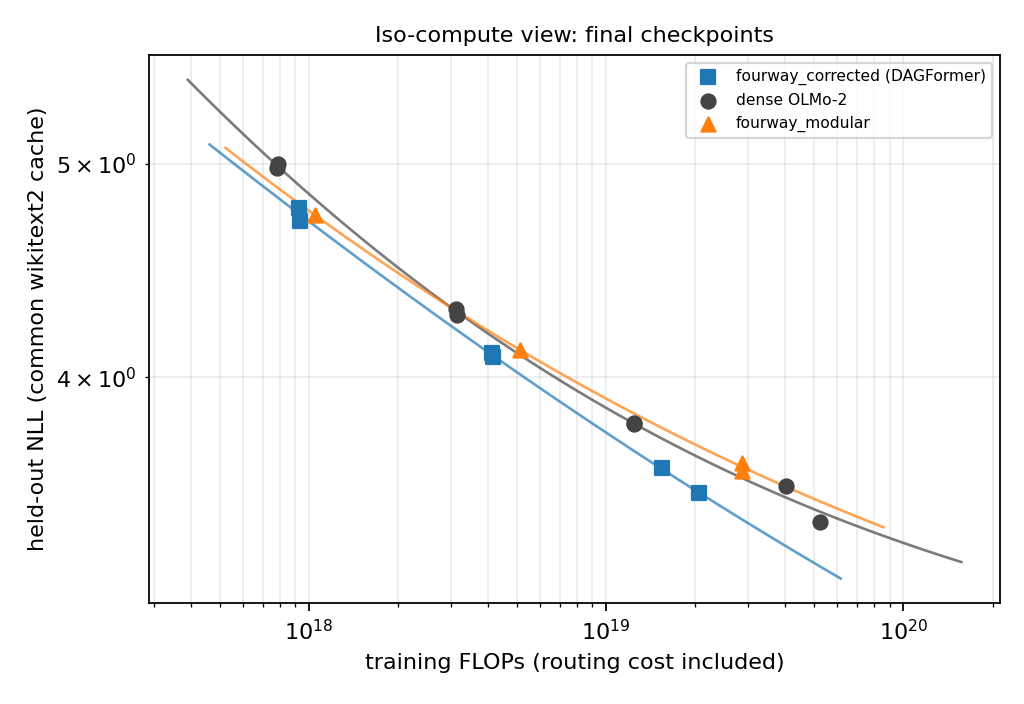
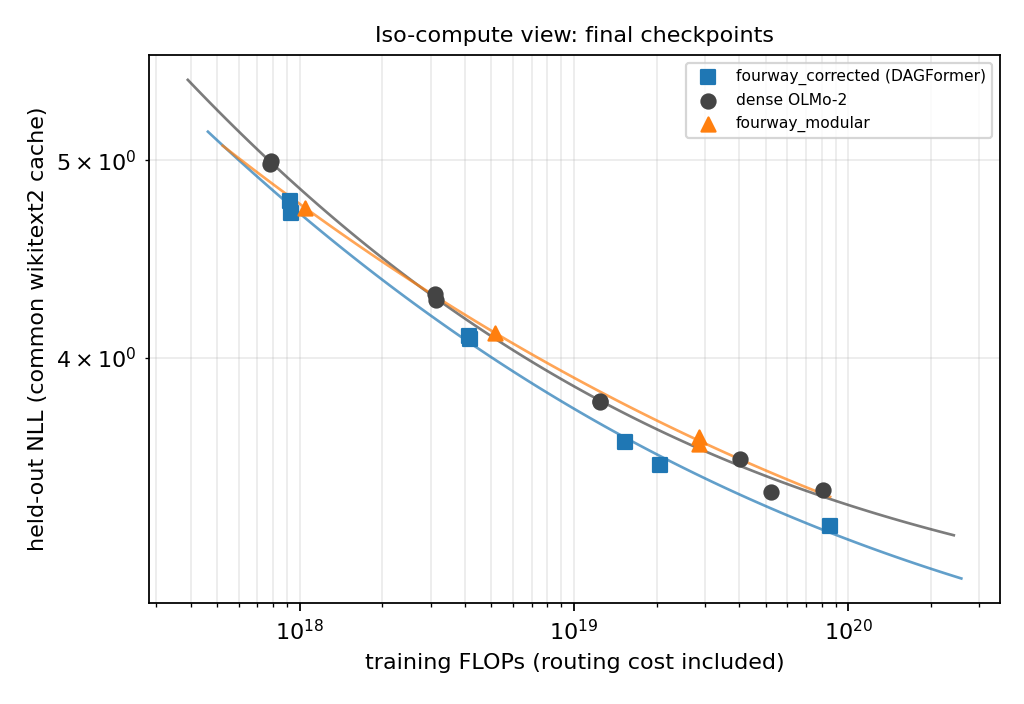
Pruning: 300M unpruned-finetune controls and relative degradation; scaling: 1B dense 10B in the common eval
- 300M s0 prune-finetune (dense 1.608, DAGFormer 1.488 held-out MathInstruct NLL; outputs on
  /work/hdd/biro, linked into the checkpoint root) fill the 300M row of the pruning table; README gains
  the relative-degradation table for 75M/150M/300M (DAGFormer advantage +0.0/+0.7/+2.1 pts at 30/50/70%
  removed at 300M).
- Common eval of 1b_dense_10b (wikitext-2 3.446) and refit; README: 1B rows in the gap table, compute
  multiplier 1.2-1.4 (75M-150M) to 1.7-1.9 (300M) and 2.1 (1B), and the fit-free iso-compute check:
  1B DAGFormer at 5B tokens (86 EFLOP) beats 1B dense at 10B tokens (81 EFLOP) on every common cache.

Claude-Session: https://claude.ai/code/session_01B2mcBcXJ4kuZ53sANpULza

diff --git a/experiments/scaling/README.md b/experiments/scaling/README.md
@@ -1,8 +1,8 @@
 # Scaling analysis: DAGFormer (routed) vs dense OLMo-2, along model size, data and compute
 
-Status (2026-09-28): pipeline in place and validated on the finished runs; the final numbers are
-regenerated automatically by the gpua046 queue after the last pretraining item (1B fourway_corrected,
-ETA 2026-09-30) and by hand for the timan runs. `results.md`, `runs_table.md`, `scaling_fits.json`
+Status (2026-10-01): every run except the 1B fourway_corrected 10B-token continuation is in the
+tables (1B dense 10B added by job 22590844). That last run (on the gpua046 chain, moving to gpua038)
+is due ~2026-10-03 and its queue re-runs the common eval, collect and fit; the timan runs are refreshed by hand. `results.md`, `runs_table.md`, `scaling_fits.json`
 and the four `fig_*.png` are outputs, do not edit them. This file holds the method, the run inventory
 and the interpretation, which is updated when the final numbers land.
 
@@ -31,7 +31,7 @@ Every pretraining run we have (26 across three machines, `runs.yaml`) is charact
 
 | corpus | machine | sizes x families | tokens/param | note |
 |---|---|---|---|---|
-| delta21b (21B-token tokenisation) | gpua046/047 | 300M x {dense, corrected, modular}, 1B x {dense, corrected} | 300M: 21 (Chinchilla); 1B: 4 | 1B at 5B tokens by decision (routing is ~2x dense cost at 1B) |
+| delta21b (21B-token tokenisation) | gpua046/047 | 300M x {dense, corrected, modular}, 1B x {dense, corrected} at 5B and 10B tokens | 300M: 21 (Chinchilla); 1B: 4 and 8 | 1B at 5B tokens by decision (routing is ~2x dense cost at 1B), both continued to 10B (LR re-warm) |
 | shared12b (original 12B slice) | Delta shared models | {75M,150M,300M,600M} dense, {75M,150M,300M} corrected | 21 (300M corrected stopped at 9000/12000 steps, 15.5) | the paper's original pairs; no metrics.csv, common eval only |
 | timan12b (local 12B rebuild) | timan1 / timan108 | {75M,150M} x {dense, corrected, modular}, 300M modular | 21 | same configs as shared12b |
 | delta1p7b (1.7B slice) | gpua046/047 | 75M x {dense, corrected, modular, global, local, per_layer, modular_sparse} | 21 | the router-locality arms (experiment 1) |
@@ -69,7 +69,7 @@ PYTHONPATH=$PWD python scripts/scaling_collect.py --machine timan1
 python scripts/scaling_fit.py                        # -> results.md, runs_table.md, scaling_fits.json, fig_*.png
 ```
 
-## Results so far (2026-09-29, all runs except the 1B DAGFormer; common wikitext-2 NLL unless stated)
+## Results so far (2026-10-01, all runs except the 1B DAGFormer at 10B tokens; common wikitext-2 NLL unless stated)
 
 Full tables: `results.md`; per-run inventory: `runs_table.md`; figures `fig_*.png`.
 
@@ -82,8 +82,11 @@ Full tables: `results.md`; per-run inventory: `runs_table.md`; figures `fig_*.pn
 | 150M | shared12b | 4.297 | 4.100 | +0.20 | | |
 | 150M | timan12b | 4.268 | 4.085 | +0.18 | 4.116 | +0.15 |
 | 300M | delta21b | 3.808 | 3.544 | +0.26 | 3.628 | +0.18 |
+| 1B, 5B tok (4 tok/param) | delta21b | 3.569 | 3.307 | +0.26 | | |
+| 1B, 10B tok (8 tok/param) | delta21b | 3.446 | due ~Oct 3 | | | |
 
-The routed advantage does not shrink from 75M to 300M (0.20-0.29 nats for fourway_corrected). The two
+The routed advantage does not shrink from 75M to 1B (0.18-0.29 nats for fourway_corrected; 0.26 at
+300M and at 1B). The two
 300M dense runs agree to 0.004 nats across corpora (shared 3.812 at 12B slice, Delta 3.808 at 21B corpus),
 so wikitext-2 is a fair cross-corpus yardstick.
 
@@ -96,18 +99,26 @@ fourway_corrected E 1.89, alpha 0.38 (6 points); fourway_modular E 2.15, alpha 0
 1.24x at 75M-150M, 1.33-1.42x at 300M. The multiplier grows with N over this range.
 
 **Iso-compute** (C = 6 x MACs/token x tokens, routing cost included; C_eq = dense compute reaching the
-same loss on the dense L(C) fit): fourway_corrected C_eq / C = 1.22-1.36 at 75M-150M and 1.59-1.81 at
-300M, i.e. it beats a dense model given the same FLOPs despite costing 1.18-1.65x per token;
-fourway_modular 1.15 at 75M and 0.78-0.94 at 150M-300M, i.e. its 1.33-2.30x routing cost is not repaid.
-This is the compute-side argument for fourway_corrected as the main method.
+same loss on the dense L(C) fit, 9 dense points with 1B dense 5B and 10B): fourway_corrected C_eq / C =
+1.20-1.36 at 75M-150M, 1.65-1.93 at 300M and 2.13 at 1B (5B tokens), i.e. it beats a dense model given the
+same FLOPs despite costing 1.18-2.13x per token, and the margin grows with size; fourway_modular 1.15 at
+75M and 0.81-0.93 at 150M-300M, i.e. its 1.33-2.30x routing cost is not repaid. This is the compute-side
+argument for fourway_corrected as the main method.
+
+**Direct iso-compute check at 1B, no fit involved:** the routed 1B at 5B tokens (86.1 EFLOP) against the
+dense 1B at 10B tokens (80.8 EFLOP, 6% less compute): wikitext-2 3.307 vs 3.446, MathInstruct 2.403 vs
+2.483, GSM8K 2.755 vs 2.900. Spending the routing FLOPs beats spending the same FLOPs on twice the data.
+The routed 10B continuation is already below the dense 10B final on the own-corpus cache at step 14000
+(2.028 vs 2.116; matched-step gap 0.12-0.15 nats from step 10000 to 14000, vs 0.13 at the 5B end).
 
 **Along training** (own-corpus curves, same cache within a corpus): the gap appears within the first
 quarter of every run, peaks, and then narrows slowly (`results.md`, "gap along training"); the joint
 L(N, D) fits are reported per corpus but rest on 2-3 sizes each and one cosine run per size.
 
-Pending: the 1B fourway_corrected (5B tokens, ETA 2026-09-30) adds the 1B pair to the gap table and the
-iso-compute plot (the 1B runs sit at 4 tokens/param and stay out of the Chinchilla L(N) fit); the queue
-re-runs the common eval, collect and fit automatically after it.
+Pending: the 1B fourway_corrected 10B continuation (ETA ~2026-10-03) completes the 10B pair; the 1B runs
+(4 and 8 tokens/param) stay out of the Chinchilla L(N) fit, so the 1B effective-parameter multiplier is
+not defined, but they enter the gap table, the L(C) fit and the compute multiplier. The gpua046/gpua038
+queue re-runs the common eval, collect and fit automatically after it.
 
 ## The Dolma-21B held-out tail is not a neutral cache (found 2026-09-29)
 

diff --git a/experiments/scaling/results.md b/experiments/scaling/results.md
@@ -56,7 +56,7 @@
 - timan12b 150m dense - modular: +0.130 @ 0.53B, +0.101 @ 1.32B, +0.095 @ 2.11B, +0.088 @ 2.91B
 - delta21b 300m dense - corrected: +0.302 @ 1.31B, +0.188 @ 2.88B, +0.159 @ 4.46B, +0.152 @ 6.03B
 - delta21b 300m dense - modular: +0.277 @ 1.31B, +0.166 @ 2.88B, +0.113 @ 4.46B, +0.106 @ 6.03B
-- delta21b 1b dense - corrected: +0.516 @ 0.52B, +0.333 @ 1.05B, +0.238 @ 1.57B, +0.197 @ 2.10B
+- delta21b 1b dense - corrected: +0.333 @ 1.05B, +0.167 @ 2.62B, +0.136 @ 3.67B, +0.147 @ 5.24B
 
 ## Joint L(N, D) = E + A/N^alpha + B/D^beta per family and corpus (training-curve points, second half of each run)
 
@@ -65,10 +65,10 @@ Caveat: every size has ONE run with a cosine schedule, so intermediate points si
 | family | corpus | sizes | points | E | A | alpha | B | beta | rss |
 |---|---|---|---|---|---|---|---|---|---|
 | corrected | delta1p7b | 75m | 6 | - | - | - | - | - | (need >= 2 sizes, >= 6 points) |
-| corrected | delta21b | 1b, 300m | 12 | - | - | - | - | - | (need >= 2 sizes, >= 6 points) |
+| corrected | delta21b | 1b, 300m | 18 | 1.768 | 1.16e+03 | 0.410 | 1.65e+12 | 1.371 | 2.16e-03 |
 | corrected | timan12b | 150m, 75m | 9 | 1.001 | 129 | 0.209 | 3.71e+07 | 0.890 | 2.32e-04 |
 | dense | delta1p7b | 75m | 6 | - | - | - | - | - | (need >= 2 sizes, >= 6 points) |
-| dense | delta21b | 1b, 300m | 17 | 1.775 | 1.25e+03 | 0.402 | 1.82e+11 | 1.250 | 8.95e-04 |
+| dense | delta21b | 1b, 300m | 27 | 1.400 | 37.2 | 0.197 | 1.21e+07 | 0.800 | 6.85e-03 |
 | dense | timan12b | 150m, 75m | 9 | 1.261 | 175 | 0.228 | 2.21e+09 | 1.087 | 6.18e-04 |
 | global | delta1p7b | 75m | 6 | - | - | - | - | - | (need >= 2 sizes, >= 6 points) |
 | local | delta1p7b | 75m | 6 | - | - | - | - | - | (need >= 2 sizes, >= 6 points) |
@@ -82,8 +82,8 @@ Caveat: every size has ONE run with a cosine schedule, so intermediate points si
 
 | family | points | E | K | gamma |
 |---|---|---|---|---|
-| corrected | 6 | 1.596 | 1.9e+03 | 0.155 |
-| dense | 8 | 2.800 | 2.2e+05 | 0.280 |
+| corrected | 7 | 2.606 | 7.95e+04 | 0.254 |
+| dense | 9 | 2.900 | 4.89e+05 | 0.300 |
 | global | 0 | - | - | - |
 | local | 0 | - | - | - |
 | modular | 4 | 2.574 | 1.51e+04 | 0.213 |
@@ -94,13 +94,14 @@ Compute multiplier: for each routed final, the dense compute C_eq that reaches t
 
 | routed run | C (PF) | L | C_eq dense (PF) | C_eq / C |
 |---|---|---|---|---|
-| shared_75m_dagformer | 926 | 4.7752 | 1131 | 1.22 |
-| timan_75m_corrected | 933 | 4.7109 | 1273 | 1.36 |
-| shared_150m_dagformer | 4135 | 4.1003 | 5043 | 1.22 |
-| timan_150m_corrected | 4167 | 4.0846 | 5268 | 1.26 |
-| shared_300m_dagformer | 15396 | 3.6366 | 24415 | 1.59 |
-| 300m_fourway_corrected | 20528 | 3.5439 | 37167 | 1.81 |
-| timan_75m_modular | 1047 | 4.7384 | 1209 | 1.15 |
-| timan_150m_modular | 5137 | 4.1157 | 4836 | 0.94 |
-| 300m_fourway_modular | 28619 | 3.6279 | 25349 | 0.89 |
-| timan_300m_modular | 28619 | 3.6575 | 22357 | 0.78 |
+| shared_75m_dagformer | 926 | 4.7752 | 1126 | 1.22 |
+| timan_75m_corrected | 933 | 4.7109 | 1264 | 1.36 |
+| shared_150m_dagformer | 4135 | 4.1003 | 4980 | 1.20 |
+| timan_150m_corrected | 4167 | 4.0846 | 5204 | 1.25 |
+| shared_300m_dagformer | 15396 | 3.6366 | 25353 | 1.65 |
+| 300m_fourway_corrected | 20528 | 3.5439 | 39704 | 1.93 |
+| 1b_fourway_corrected_5b | 86080 | 3.3068 | 183519 | 2.13 |
+| timan_75m_modular | 1047 | 4.7384 | 1203 | 1.15 |
+| timan_150m_modular | 5137 | 4.1157 | 4773 | 0.93 |
+| 300m_fourway_modular | 28619 | 3.6279 | 26380 | 0.92 |
+| timan_300m_modular | 28619 | 3.6575 | 23100 | 0.81 |

diff --git a/experiments/pruning/README.md b/experiments/pruning/README.md
@@ -191,7 +191,7 @@ Domain eval NLL on held-out MathInstruct after 2000 finetuning steps.
 
 | units | block sparsity | 75M base / DAG (gap) | 150M base / DAG (gap) | 300M base / DAG (gap) |
 |---|---|---|---|---|
-| unpruned finetune | 0% | 2.388 / 2.223 (+0.165) | 1.883 / 1.743 (+0.139) | queued |
+| unpruned finetune | 0% | 2.388 / 2.223 (+0.165) | 1.883 / 1.743 (+0.139) | 1.608 / 1.488 (+0.120) |
 | heads + neurons | 30% | 2.478 / 2.298 (+0.180) | 1.957 / 1.807 (+0.150) | 1.665 / 1.541 (+0.124) |
 | heads + neurons | 50% | 2.590 / 2.391 (+0.199) | 2.071 / 1.899 (+0.172) | 1.762 / 1.620 (+0.142) |
 | heads + neurons | 70% | 2.829 / 2.614 (+0.215) | 2.278 / 2.091 (+0.187) | 1.967 / 1.790 (+0.177) |
@@ -205,11 +205,26 @@ What the data says:
 - **The DAGFormer advantage grows with sparsity at every size.** The
   unpruned finetuning gap is 0.165 / 0.139 nats (75M / 150M); at 70% of
   block parameters removed it is 0.215 / 0.187, and at 300M it rises from
-  0.124 (30%) to 0.177 (70%). In compactness terms, DAGFormer with half its
+  0.120 (unpruned) to 0.177 (70%). In compactness terms, DAGFormer with half its
   heads and MLP channels removed matches or beats the unpruned finetuned
   baseline at 75M (2.391 vs 2.388) and 150M (1.899 vs 1.883). Post-prune
   ticks in the trajectory figure show smaller immediate damage for DAGFormer
   at high sparsity.
+- **Relative degradation** (minus the increase of held-out MathInstruct NLL
+  over the same model's unpruned finetune; the 300M unpruned controls ran
+  2026-10-01, outputs in /work/hdd/biro/xiaocong/dagformer_pruning, linked
+  into the checkpoint root):
+
+  | removed | 75M dense / DAG (adv.) | 150M dense / DAG (adv.) | 300M dense / DAG (adv.) |
+  |---|---|---|---|
+  | 30% | -3.7% / -3.4% (+0.4 pts) | -3.9% / -3.6% (+0.3 pts) | -3.6% / -3.5% (+0.0 pts) |
+  | 50% | -8.4% / -7.5% (+0.9 pts) | -10.0% / -8.9% (+1.1 pts) | -9.6% / -8.9% (+0.7 pts) |
+  | 70% | -18.5% / -17.6% (+0.9 pts) | -21.0% / -20.0% (+1.1 pts) | -22.3% / -20.3% (+2.1 pts) |
+
+  In relative terms the advantage is small at 30% (none at 300M) and grows
+  with sparsity; at 70% it is largest at 300M. DAGFormer starts 7.4% lower
+  at 300M (6.9% / 7.4% at 75M / 150M), so at 50% removed it is within 0.9%
+  of the unpruned dense finetune at every size (75M +0.1%, 150M +0.9%, 300M +0.8%).
 - **It is not the predictor re-routing.** Freezing the global predictor
   during prune-finetune changes nothing (75M: 2.388 vs 2.391; 150M: 1.899
   vs 1.899). Consistent with `experiments/coherence` (the predictor's

diff --git a/experiments/scaling/runs_table.md b/experiments/scaling/runs_table.md
@@ -10,8 +10,10 @@
 | 300m_fourway_corrected | delta | delta21b | corrected | 300m | 304.1 | 201.4 | 32.3 | 6.29 | 20.7 | 3.26 | 20528 | y | 2.22125 | 2.2220 | 3.5439 | 2.5650 | 2.9366 |
 | 300m_dense | delta | delta21b | dense | 300m | 304.1 | 201.4 | 0.0 | 6.29 | 20.7 | 1.98 | 12429 | y | 2.37375 | 2.3736 | 3.8078 | 2.7422 | 3.2324 |
 | 300m_fourway_modular | delta | delta21b | modular | 300m | 304.1 | 201.4 | 32.1 | 6.29 | 20.7 | 4.55 | 28619 | y | 2.2675 | 2.2674 | 3.6279 | 2.6162 | 3.0925 |
-| 1b_fourway_corrected_5b | delta | delta21b | corrected | 1b | 1279.4 | 1073.9 | 36.7 | 5.00 | 3.9 | 17.21 | 86080 | n | 2.2984375 | - | - | - | - |
+| 1b_fourway_corrected_5b | delta | delta21b | corrected | 1b | 1279.4 | 1073.9 | 36.7 | 5.00 | 3.9 | 17.21 | 86080 | y | 2.0771875 | 2.0763 | 3.3068 | 2.4031 | 2.7551 |
+| 1b_fourway_corrected_10b | delta | delta21b | corrected | 1b | 1279.4 | 1073.9 | 36.7 | 10.00 | 7.8 | 17.21 | 172159 | n | 2.1125 | - | - | - | - |
 | 1b_dense_5b | delta | delta21b | dense | 1b | 1279.4 | 1073.9 | 0.0 | 5.00 | 3.9 | 8.08 | 40405 | y | 2.210625 | 2.2108 | 3.5690 | 2.5859 | 3.0576 |
+| 1b_dense_10b | delta | delta21b | dense | 1b | 1279.4 | 1073.9 | 0.0 | 10.00 | 7.8 | 8.08 | 80810 | y | 2.1159375 | 2.1160 | 3.4461 | 2.4830 | 2.9004 |
 | shared_75m_dagformer | delta | shared12b | corrected | 75m | 76.6 | 25.2 | 29.1 | 1.57 | 20.5 | 0.59 | 926 | y | - | 4.7254 | 4.7752 | 4.0529 | 3.9985 |
 | shared_75m_baseline | delta | shared12b | dense | 75m | 76.6 | 25.2 | 0.0 | 1.57 | 20.5 | 0.50 | 782 | y | - | 4.9834 | 4.9803 | 4.2671 | 4.2164 |
 | shared_150m_dagformer | delta | shared12b | corrected | 150m | 152.6 | 75.5 | 30.0 | 3.15 | 20.6 | 1.31 | 4135 | y | - | 4.0704 | 4.1003 | 3.4236 | 3.4651 |

diff --git a/experiments/pruning/results/prune_summary.md b/experiments/pruning/results/prune_summary.md
@@ -30,6 +30,8 @@
 | 150m_dagformer_math_s50_random | head,neuron | random | 0.5 | 0.500 | 37.8M | 144.8M | 3.4225 | 2.1285 | 5.3649 |
 | 150m_baseline_math_s70 | head,neuron | taylor | 0.7 | 0.699 | 22.7M | 99.8M | 3.6289 | 2.2783 | 5.5274 |
 | 150m_dagformer_math_s70 | head,neuron | taylor | 0.7 | 0.699 | 22.7M | 129.7M | 3.4225 | 2.0911 | 5.2018 |
+| 300m_baseline_math_s0 | head,neuron | taylor | 0.0 | 0.000 | 201.4M | 304.1M | 3.2014 | 1.6078 | 3.9898 |
+| 300m_dagformer_math_s0 | head,neuron | taylor | 0.0 | 0.000 | 201.4M | 336.4M | 3.0317 | 1.4881 | 3.7930 |
 | 300m_baseline_math_s30 | head,neuron | taylor | 0.3 | 0.300 | 140.9M | 243.6M | 3.2014 | 1.6650 | 4.2198 |
 | 300m_dagformer_math_s30 | head,neuron | taylor | 0.3 | 0.300 | 140.9M | 275.9M | 3.0317 | 1.5406 | 4.0112 |
 | 300m_baseline_math_s50 | head,neuron | taylor | 0.5 | 0.500 | 100.7M | 203.5M | 3.2014 | 1.7624 | 4.5455 |
@@ -53,6 +55,7 @@
 | 150m | s50 | 2.0709 | 1.8989 | +0.1720 |
 | 150m | s50_random | 2.2798 | 2.1285 | +0.1513 |
 | 150m | s70 | 2.2783 | 2.0911 | +0.1872 |
+| 300m | s0 | 1.6078 | 1.4881 | +0.1197 |
 | 300m | s30 | 1.6650 | 1.5406 | +0.1244 |
 | 300m | s50 | 1.7624 | 1.6202 | +0.1422 |
 | 300m | s70 | 1.9666 | 1.7896 | +0.1770 |
